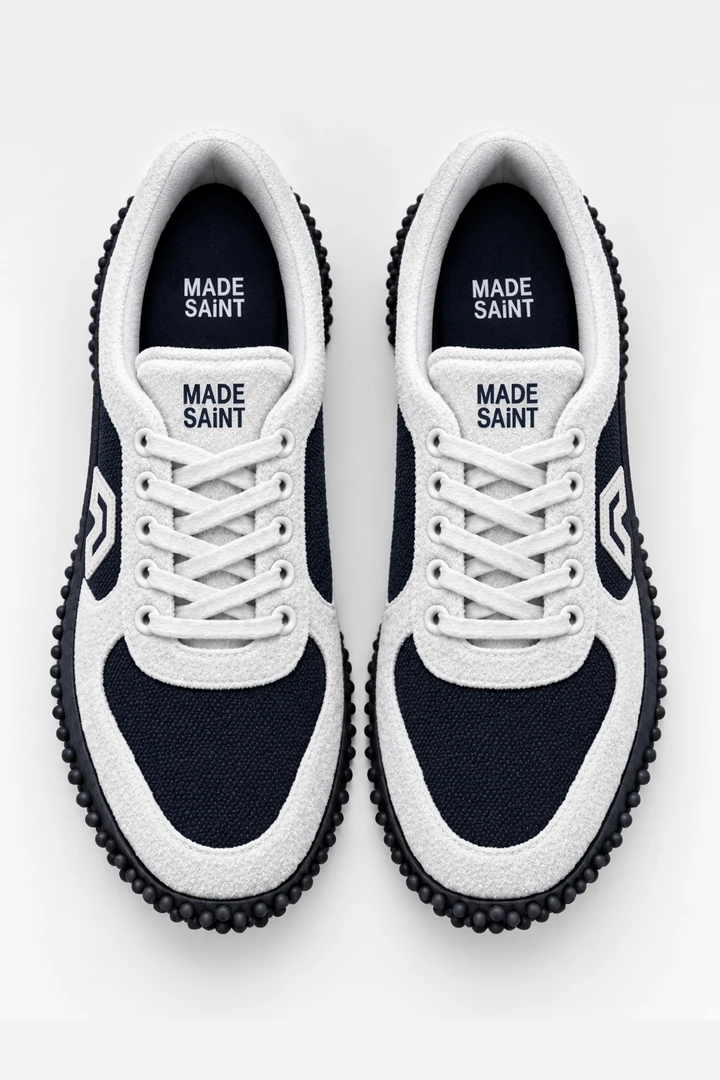
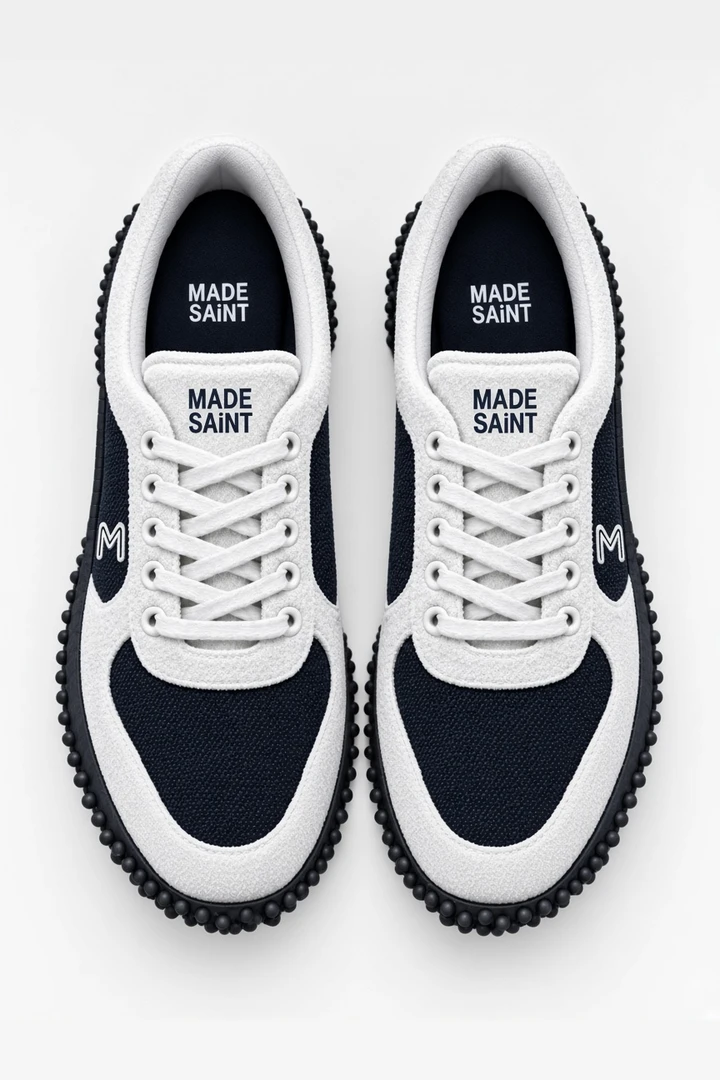
Lock the M to tonal at the midfoot (9060 placement rules); regenerate all renders

Changed region(s): [[0.0611, 0.1222, 0.9472, 0.8861], [0.5194, 0.1833, 0.5806, 0.3361], [0.6111, 0.1833, 0.6417, 0.2139]]

diff --git a/src/app/brand/page.tsx b/src/app/brand/page.tsx
@@ -3,9 +3,8 @@ import Link from "next/link";
 import type { Metadata } from "next";
 import { CONCEPT_PALETTE, assignRoles, buildCollection } from "@/lib/collection";
 import { STORIES } from "@/lib/stories";
-import { mix } from "@/lib/color";
 import { RunnerFlat, type RunnerVariant } from "@/components/flats/runner";
-import { MARK_PLACEMENTS, type MarkPlacementId } from "@/components/flats/mark";
+import { MARK_PLACEMENTS, tonalMark, type MarkPlacementId } from "@/components/flats/mark";
 
 export const metadata: Metadata = {
   title: "MADE SAiNT · M side mark",
@@ -13,52 +12,50 @@ export const metadata: Metadata = {
 };
 
 const PAPER = "#f4f0e6";
-const REFLECTIVE = "#b9bbbd";
 /** Heel-to-toe length on the lateral flat, in flat units, and a US 9 last length in mm. */
 const FLAT_LENGTH = 526;
 const LAST_MM = 275;
 const MM = LAST_MM / FLAT_LENGTH;
 
-const STUDY: { id: MarkPlacementId; verdict: "Recommended" | "Alternative" | "Rejected"; points: string[] }[] = [
+const RULES = [
+  ["Length", "Centred at half the shoe length, spanning about 37% to 63%: the mark owns the midfoot, between the heel overlay and the toe."],
+  ["Top", "Tucked against the eyestay, as if the lacing sits on it. No gap that makes it float."],
+  ["Bottom", "Ends on the lower overlay, about a sixth of the side height above the midsole. Never on the foam."],
+  ["Height", "Fills about 80% of the side between eyestay and midsole."],
+  ["Lean", "15° forward, the italic of the letter, not the rake of the panels."],
+  ["Layering", "Sits on top of every panel and crosses the seams, so it reads as one graphic, not a panel filler."],
+  ["Keyline", "A border a step darker than the mark separates it from mesh and suede."],
+  ["Front", "Stops short of the forefoot flex zone."],
+];
+
+const STUDY: { id: MarkPlacementId; verdict: "Locked" | "Previous" | "Alternative" | "Rejected"; points: string[] }[] = [
+  {
+    id: "midfoot",
+    verdict: "Locked",
+    points: [
+      "Placed by the 9060 rules: centred at half length, top tucked under the eyestay, bottom on the lower overlay",
+      "Crosses the mesh window and the saddle, so it holds the side together",
+      "Stops before the forefoot flex zone, so the overlay does not stiffen the crease",
+    ],
+  },
   {
     id: "quarter",
-    verdict: "Recommended",
-    points: [
-      "Owns the side of the shoe like the reference, but stays behind the flex zone, so the film never creases",
-      "Leans with the saddle and the eyestay, so the M reads as motion, not a sticker",
-      "Bridges the heel overlay and the mesh window; peaks tuck under the eyestay, feet stop on the midsole line",
-      "Crosses the quarter overlay and mesh: bond it to the closed upper before lasting",
-    ],
+    verdict: "Previous",
+    points: ["Sat too far back and ran down to the midsole, so it read as a heel graphic", "The 20° rake fought the letter's own italic"],
   },
   {
     id: "window",
     verdict: "Alternative",
-    points: [
-      "The quiet option: contained in the rear mesh window, no seams crossed",
-      "Can be cut from one piece and bonded to the flat mesh panel, the cheapest to make",
-      "Too small to carry the brand from across a room",
-    ],
+    points: ["Contained in the rear mesh window, cheapest to make", "Too small to carry the brand from across a room"],
   },
   {
     id: "full",
     verdict: "Rejected",
-    points: [
-      "Closest to the 700 MNVN, and that is the problem: it reads as borrowed",
-      "Runs through the forefoot flex zone, where bonded film cracks and lifts within weeks",
-      "Fights the saddle and mudguard lines instead of working with them",
-    ],
-  },
-  {
-    id: "heel",
-    verdict: "Rejected",
-    points: [
-      "Tidy, but the heel counter is already where the tongue label leads the eye",
-      "Lost in the curve of the heel from the side",
-    ],
+    points: ["Reads as borrowed from the 700 MNVN", "Runs through the forefoot flex zone, where bonded film cracks"],
   },
 ];
 
-const tone = { Recommended: "bg-[#2f5d3a] text-white", Alternative: "bg-[#22201d]/10", Rejected: "bg-[#9a3b2c]/12 text-[#9a3b2c]" };
+const tone = { Locked: "bg-[#2f5d3a] text-white", Previous: "bg-[#22201d]/10", Alternative: "bg-[#22201d]/10", Rejected: "bg-[#9a3b2c]/12 text-[#9a3b2c]" };
 
 function looks() {
   const tones = assignRoles(CONCEPT_PALETTE);
@@ -71,7 +68,8 @@ function looks() {
 export default function BrandPage() {
   const hero = buildCollection(assignRoles(CONCEPT_PALETTE), [{ style: "runner", recipe: "hero" }])[0];
   const stories = looks();
-  const q = MARK_PLACEMENTS.quarter;
+  const q = MARK_PLACEMENTS.midfoot;
+  const tones = tonalMark(hero.colors.quarter);
   const markW = Math.round((442 - 58 + 54) * q.sx * MM + Math.abs(Math.tan((q.lean * Math.PI) / 180)) * 226 * q.sy * MM);
   const markH = Math.round((204 - 32 + 54) * q.sy * MM);
 
@@ -100,8 +98,9 @@ export default function BrandPage() {
           <div>
             <h1 className="font-serif text-4xl leading-none">The M</h1>
             <p className="mt-3 max-w-2xl text-[14px] leading-relaxed text-[#22201d]/75">
-              A wide, forward-leaning monoline M with an inline channel, carried over from the nested-bar mark. Bonded reflective film,
-              flush, no stitching. Inspired by the scale and finish of the 700 MNVN graphics; the letterform and placement are our own.
+              A wide, forward-leaning monoline M with an inline channel, carried over from the nested-bar mark. Every application is tonal:
+              the mark is the overlay colour a step lighter, keylined a step darker. Placement follows the rules New Balance uses for
+              the N on the 9060; the letterform is our own.
             </p>
             <a href="/brand/m-mark.svg" download className="mt-4 inline-block font-mono text-[11px] tracking-[0.1em] uppercase underline underline-offset-4">
               Download vector
@@ -109,16 +108,29 @@ export default function BrandPage() {
           </div>
         </section>
 
+        <section className="rounded-xl border border-[#22201d]/15 bg-[#fbf8f2] p-5">
+          <h2 className="font-serif text-3xl">What the 9060 teaches</h2>
+          <p className="mt-1 max-w-3xl text-[13px] text-[#22201d]/65">Measured from the lateral view of the New Balance 9060, applied to our locked flat.</p>
+          <dl className="mt-4 grid gap-x-8 gap-y-3 md:grid-cols-2">
+            {RULES.map(([k, v]) => (
+              <div key={k} className="grid grid-cols-[90px_1fr] gap-3 border-t border-[#22201d]/10 pt-3 text-[13px]">
+                <dt className="font-mono text-[10px] tracking-[0.1em] text-[#22201d]/55 uppercase">{k}</dt>
+                <dd>{v}</dd>
+              </div>
+            ))}
+          </dl>
+        </section>
+
         <section>
           <h2 className="font-serif text-3xl">Placement</h2>
           <p className="mt-1 max-w-3xl text-[13px] text-[#22201d]/65">
-            Four positions on the locked lateral flat. The red band is the forefoot flex zone, where the upper creases on every step.
+            Four positions on the locked lateral flat, all tonal. The red band is the forefoot flex zone, where the upper creases on every step.
           </p>
           <div className="mt-4 grid gap-4 lg:grid-cols-2">
             {STUDY.map((s) => {
-              const variant: RunnerVariant = { mark: s.id, markColor: REFLECTIVE, guides: true };
+              const variant: RunnerVariant = { mark: s.id, guides: true };
               return (
-                <div key={s.id} className={`rounded-xl border bg-[#fbf8f2] p-4 ${s.verdict === "Recommended" ? "border-[#22201d] shadow-sm" : "border-[#22201d]/15"}`}>
+                <div key={s.id} className={`rounded-xl border bg-[#fbf8f2] p-4 ${s.verdict === "Locked" ? "border-[#22201d] shadow-sm" : "border-[#22201d]/15"}`}>
                   <div className="flex items-baseline justify-between gap-3">
                     <h3 className="font-serif text-2xl">{MARK_PLACEMENTS[s.id].name}</h3>
                     <span className={`rounded px-2 py-0.5 font-mono text-[10px] uppercase ${tone[s.verdict]}`}>{s.verdict}</span>
@@ -137,21 +149,22 @@ export default function BrandPage() {
 
         <section className="grid gap-6 rounded-xl border border-[#22201d]/15 bg-[#fbf8f2] p-5 lg:grid-cols-[1.3fr_1fr]">
           <div>
-            <h2 className="font-serif text-3xl">Specification, quarter sweep</h2>
-            <RunnerFlat colors={hero.colors} view="lateral" paper={PAPER} variant={{ mark: "quarter", markColor: REFLECTIVE }} className="mt-3 [&_svg]:h-auto [&_svg]:w-full" />
+            <h2 className="font-serif text-3xl">Specification, locked</h2>
+            <RunnerFlat colors={hero.colors} view="lateral" paper={PAPER} variant={{ mark: "midfoot" }} className="mt-3 [&_svg]:h-auto [&_svg]:w-full" />
           </div>
           <dl className="divide-y divide-[#22201d]/10 self-center text-[13px]">
             {[
-              ["Position", "Lateral quarter only. Medial side stays clean."],
+              ["Position", "Lateral side, midfoot. Medial side stays clean."],
               ["Size, US 9", `About ${markW} × ${markH} mm. Grade with the pattern, not by a fixed size.`],
-              ["Lean", `${Math.abs(q.lean)}° forward, between the eyestay and saddle angles`],
-              ["Top", "Leading peak 4 mm below the eyestay edge"],
-              ["Bottom", "Feet end 2 mm above the midsole line, never on the foam"],
-              ["Rear", "Rear foot on the heel overlay, about 40 mm ahead of the back seam"],
-              ["Front", "Ends before the saddle, under half the shoe length; the flex zone starts at 65%"],
-              ["Stroke", "Inline channel 2 mm, panel shows through"],
-              ["Material", "Heat-transfer reflective film, matte silver or tonal reflective"],
-              ["Process", "Bonded after closing, before lasting, on a contoured press"],
+              ["Lean", `${Math.abs(q.lean)}° forward`],
+              ["Span", "37% to 63% of length from the heel"],
+              ["Top", "Tucked against the eyestay edge, under the third and fourth eyelets"],
+              ["Bottom", "About 5 mm above the midsole line, on the lower overlay"],
+              ["Swatch", `Fill ${tones.fill}, keyline ${tones.keyline} on overlay ${hero.colors.quarter}`],
+              ["Colour", "Tonal only: mark one step lighter than the overlay, keyline one step darker"],
+              ["Stroke", "Inline channel 2 mm, panel shows through; keyline 1.5 mm"],
+              ["Material", "Tonal suede or nubuck overlay, stitched. Silver or contrast versions are not used."],
+              ["Process", "Cut and stitched onto the closed upper before lasting"],
             ].map(([k, v]) => (
               <div key={k} className="grid grid-cols-[110px_1fr] gap-3 py-2">
                 <dt className="font-mono text-[10px] tracking-[0.1em] text-[#22201d]/55 uppercase">{k}</dt>
@@ -163,18 +176,19 @@ export default function BrandPage() {
 
         <section>
           <h2 className="font-serif text-3xl">Across the colorways</h2>
-          <p className="mt-1 max-w-3xl text-[13px] text-[#22201d]/65">
-            Quarter sweep on every story. Top row in silver reflective; bottom row in tonal reflective, a shade lighter than the overlay, which only flashes under light.
-          </p>
+          <p className="mt-1 max-w-3xl text-[13px] text-[#22201d]/65">Locked placement, tonal on every story. The tone is derived from each colorway&apos;s overlay.</p>
           <div className="mt-4 grid gap-3 sm:grid-cols-2 lg:grid-cols-3">
             {stories.map((r) => {
-              const base: RunnerVariant = { textures: r.textures, grid: false, label: r.storyData?.label, mark: "quarter" };
-              const overlay = r.colors.quarter;
+              const t = tonalMark(r.colors.quarter);
               return (
                 <div key={r.story} className="rounded-xl border border-[#22201d]/15 bg-[#fbf8f2] p-3">
-                  <p className="font-serif text-xl">{r.storyData?.name}</p>
-                  <RunnerFlat colors={r.colors} view="lateral" paper={PAPER} variant={{ ...base, markColor: REFLECTIVE }} className="mt-2 [&_svg]:h-auto [&_svg]:w-full" />
-                  <RunnerFlat colors={r.colors} view="lateral" paper={PAPER} variant={{ ...base, markColor: mix(overlay, "#ffffff", 0.22) }} className="mt-1 [&_svg]:h-auto [&_svg]:w-full" />
+                  <div className="flex items-center justify-between gap-2">
+                    <p className="font-serif text-xl">{r.storyData?.name}</p>
+                    <span className="flex gap-1">
+                      {[r.colors.quarter, t.fill, t.keyline].map((h) => <span key={h} className="size-4 rounded-sm border border-black/15" style={{ background: h }} title={h} />)}
+                    </span>
+                  </div>
+                  <RunnerFlat colors={r.colors} view="lateral" paper={PAPER} variant={{ textures: r.textures, grid: false, label: r.storyData?.label, mark: "midfoot" }} className="mt-2 [&_svg]:h-auto [&_svg]:w-full" />
                 </div>
               );
             })}
@@ -182,10 +196,10 @@ export default function BrandPage() {
         </section>
 
         <section>
-          <h2 className="font-serif text-3xl">Concept renders</h2>
+          <h2 className="font-serif text-3xl">Renders, tonal</h2>
           <div className="mt-4 grid gap-3 sm:grid-cols-2">
-            {["m-concept-runner-placed", "m-concept-runner-aubergine", "m-concept-mule", "m-concept-runner-oversized"].map((f) => (
-              <Image key={f} src={`/brand/${f}.webp`} alt={f} width={1280} height={720} className="w-full rounded-xl" />
+            {["/hero/look1-runner-hero.webp", "/hero/look3-runner-inverse.webp", "/hero/look2-mule-tonal.webp"].map((f) => (
+              <Image key={f} src={f} alt="Tonal M render" width={1280} height={720} className="w-full rounded-xl" />
             ))}
           </div>
         </section>

diff --git a/src/components/flats/mark.tsx b/src/components/flats/mark.tsx
@@ -1,12 +1,12 @@
+import { lightness, mix } from "@/lib/color";
 import { INK } from "./textures";
 
 /** The M side mark, same geometry as public/brand/m-mark.svg (local units, before skew). */
 export const M_PATH = "M58 204 L104 66 Q116 32 140 60 L232 168 Q250 188 268 168 L360 60 Q384 32 396 66 L442 204";
 const OUTER = 54;
 const INNER = 14;
-const EDGE = 2.4;
 
-export type MarkPlacementId = "window" | "quarter" | "full" | "heel";
+export type MarkPlacementId = "midfoot" | "quarter" | "window" | "full";
 
 export type MarkPlacement = {
   id: MarkPlacementId;
@@ -18,33 +18,47 @@ export type MarkPlacement = {
   lean: number;
 };
 
-/** Placements on the runner lateral flat (600 × 262, toe right). */
+/**
+ * Placements on the runner lateral flat (600 × 262, heel x 44, toe x 570). Midfoot follows the 9060 rules:
+ * centred at half length, top tucked against the eyestay, bottom on the lower overlay, 15° lean, over the seams.
+ */
 export const MARK_PLACEMENTS: Record<MarkPlacementId, MarkPlacement> = {
-  window: { id: "window", name: "Mesh window", tx: 196, ty: 134, sx: 0.2, sy: 0.24, lean: -14 },
+  midfoot: { id: "midfoot", name: "Midfoot", tx: 237.5, ty: 130.7, sx: 0.31, sy: 0.257, lean: -15 },
   quarter: { id: "quarter", name: "Quarter sweep", tx: 132, ty: 130.6, sx: 0.38, sy: 0.285, lean: -20 },
+  window: { id: "window", name: "Mesh window", tx: 196, ty: 134, sx: 0.2, sy: 0.24, lean: -14 },
   full: { id: "full", name: "Full length", tx: 86, ty: 113, sx: 0.98, sy: 0.36, lean: -14 },
-  heel: { id: "heel", name: "Heel counter", tx: 58, ty: 128, sx: 0.15, sy: 0.2, lean: -14 },
 };
 
-/** Inline double-line M: an ink edge, then the film colour, with the channel showing the panel underneath. */
-export function MMark({ uid, placement, color, clip }: { uid: string; placement: MarkPlacement; color: string; clip?: string }) {
+export type MarkTone = { fill: string; keyline: string };
+
+/** Tonal treatment: the mark is the overlay colour a step lighter (or darker on pale overlays), keylined a step darker. */
+export function tonalMark(overlay: string): MarkTone {
+  return lightness(overlay) > 0.72
+    ? { fill: mix(overlay, "#000000", 0.09), keyline: mix(overlay, "#000000", 0.22) }
+    : { fill: mix(overlay, "#ffffff", 0.17), keyline: mix(overlay, "#000000", 0.3) };
+}
+
+/** Inline M with a keyline border; the channel shows the panel underneath. */
+export function MMark({ uid, placement, tone, clip }: { uid: string; placement: MarkPlacement; tone: MarkTone; clip?: string }) {
   const { tx, ty, sx, sy, lean } = placement;
   const id = `${uid}-m-${placement.id}`;
-  const mask = (key: string, outer: number, inner: number) => (
-    <mask id={`${id}-${key}`} maskUnits="userSpaceOnUse" x="-200" y="-100" width="1000" height="440">
-      <path d={M_PATH} fill="none" stroke="#fff" strokeWidth={outer} strokeLinecap="round" strokeLinejoin="round" />
-      <path d={M_PATH} fill="none" stroke="#000" strokeWidth={inner} strokeLinecap="round" strokeLinejoin="round" />
-    </mask>
+  const k = 3.2 / Math.min(sx, sy);
+  const e = 1.4 / Math.min(sx, sy);
+  const layer = (key: string, outer: number, inner: number, fill: string) => (
+    <>
+      <mask id={`${id}-${key}`} maskUnits="userSpaceOnUse" x="-200" y="-100" width="1000" height="440">
+        <path d={M_PATH} fill="none" stroke="#fff" strokeWidth={outer} strokeLinecap="round" strokeLinejoin="round" />
+        <path d={M_PATH} fill="none" stroke="#000" strokeWidth={inner} strokeLinecap="round" strokeLinejoin="round" />
+      </mask>
+      <rect x="-200" y="-100" width="1000" height="440" fill={fill} mask={`url(#${id}-${key})`} />
+    </>
   );
   return (
     <g clipPath={clip ? `url(#${clip})` : undefined}>
       <g transform={`translate(${tx} ${ty}) skewX(${lean}) scale(${sx} ${sy})`}>
-        <defs>
-          {mask("edge", OUTER + EDGE / Math.min(sx, sy), INNER - EDGE / Math.min(sx, sy))}
-          {mask("fill", OUTER, INNER)}
-        </defs>
-        <rect x="-200" y="-100" width="1000" height="440" fill={INK} mask={`url(#${id}-edge)`} />
-        <rect x="-200" y="-100" width="1000" height="440" fill={color} mask={`url(#${id}-fill)`} />
+        {layer("ink", OUTER + 2 * k + e, Math.max(1, INNER - e), INK)}
+        {layer("key", OUTER + 2 * k, INNER, tone.keyline)}
+        {layer("fill", OUTER, INNER + k, tone.fill)}
       </g>
     </g>
   );

diff --git a/src/components/flats/runner.tsx b/src/components/flats/runner.tsx
@@ -2,14 +2,14 @@ import { useId } from "react";
 import { STYLES, type Texture } from "@/lib/collection";
 import { mix } from "@/lib/color";
 import { INK, Pattern, cr, type Pt } from "./textures";
-import { MARK_PLACEMENTS, MMark, type MarkPlacementId } from "./mark";
+import { MARK_PLACEMENTS, MMark, tonalMark, type MarkPlacementId } from "./mark";
 
 export type RunnerVariant = {
   textures?: Record<string, Texture>;
   grid?: boolean;
   label?: "woven" | "printed";
+  /** Side mark placement. Always tonal, derived from the quarter overlay colour. */
   mark?: MarkPlacementId;
-  markColor?: string;
   /** Draws the forefoot flex zone, for placement studies. */
   guides?: boolean;
 };
@@ -84,7 +84,7 @@ function Lateral({ uid, colors, paper, variant }: ViewProps) {
         <path d={L_LINING} fill="none" stroke={INK} strokeWidth="0.6" transform="translate(0 3.6)" />
       </g>
       {variant.mark && (
-        <MMark uid={uid} placement={MARK_PLACEMENTS[variant.mark]} color={variant.markColor ?? "#b9bbbd"} clip={`${uid}-clip`} />
+        <MMark uid={uid} placement={MARK_PLACEMENTS[variant.mark]} tone={tonalMark(colors.quarter)} clip={`${uid}-clip`} />
       )}
       <path d={L_UPPER} fill="none" stroke={INK} strokeWidth="1.1" />
 

diff --git a/src/components/studio/look.tsx b/src/components/studio/look.tsx
@@ -36,7 +36,7 @@ export function Segmented<T extends string>({ value, options, onChange, label }:
 }
 
 export function variantOf(r: SlotResult): RunnerVariant {
-  const mark = { mark: "quarter" as const, markColor: "#b9bbbd" };
+  const mark = { mark: "midfoot" as const };
   return r.storyData ? { textures: r.textures, grid: false, label: r.storyData.label, ...mark } : mark;
 }
 

diff --git a/README.md b/README.md
@@ -7,7 +7,7 @@ A pre-order footwear business made with MEES (Felgueiras, Portugal): the storefr
 | `/shop` | Founding Edition pre-order storefront |
 | `/launch` | Pricing, unit economics, pre-order tracker, cash flow, size run, marketing plan, reservations |
 | `/studio` | Collection Studio |
-| `/brand` | M side mark: placement study, spec, colorways, vector |
+| `/brand` | M side mark: midfoot placement (9060 rules), tonal only, spec, colorways, vector |
 | `/` | MS-TM01 Trail Mule technical package |
 
 ## Pre-order shop (`/shop`)
